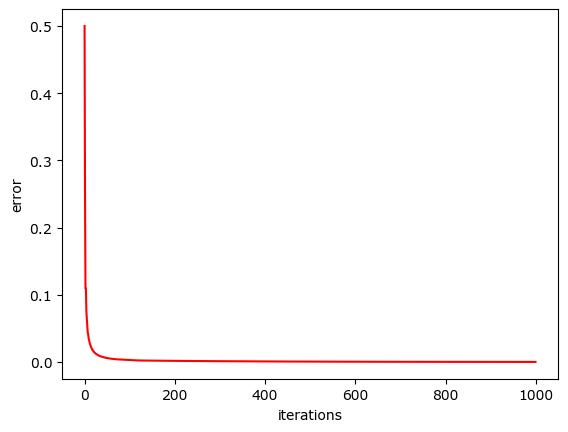
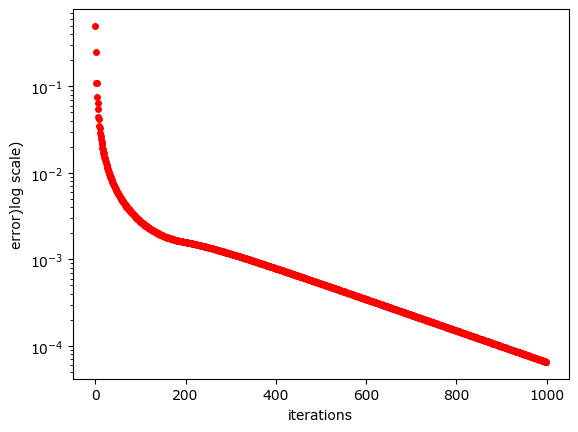
outline for all task ready

diff --git a/week5/EE19B123_week5.py b/week5/EE19B123_week5.py
@@ -12,21 +12,31 @@ import mpl_toolkits.mplot3d.axes3d as p3
 import os
 os.chdir('/home/tanay/Documents/sem4/EE2703/week5')
 
+##TODO make imgs directory
 
+
+
+#python decorator to add plot label/title/legend/save file
 def add_stuf(function):
         def fcall(*args, **kwargs): 
-
-            plt.xlabel(kwargs['xlabel'])
-            plt.ylabel(kwargs['ylabel'])
+            if kwargs.get('xlabel'):
+                plt.xlabel(kwargs['xlabel'])
+            if kwargs.get('ylabel'):
+                plt.ylabel(kwargs['ylabel'])
             if kwargs.get('title'):
                 plt.title(kwargs['title'])
             if kwargs.get('legend'):
                 plt.legend()
             function(*args, **kwargs)
+
+            plt.savefig(kwargs['path']+'.png',bbox_inches='tight')
         return fcall
 
 
 class Plot:
+    '''
+    TODO add description
+    '''
 
     def __init__(self):
         super(Plot, self).__init__()
@@ -34,45 +44,73 @@ class Plot:
 
     @add_stuf
     def semilogy(self,x,y, **kwargs):
-        print('called')
-        plt.semilogy(x,y,kwargs['marker'], label = kwargs['label'])
-        plt.savefig(kwargs['path']+'.png',bbox_inches='tight')
+        plt.semilogy(x,y,kwargs['marker'],ms = 4, label = kwargs['label'])
         print('File saved at {}'.format(kwargs['path']))
+        plt.clf()
 
     @add_stuf
     def loglog(self,x,y, **kwargs):
-        plt.loglog(x,y,kwargs['marker'], label = kwargs['label'])
-        plt.savefig(kwargs['path']+'.png',bbox_inches='tight')
+        plt.loglog(x,y,kwargs['marker'],ms=4, label = kwargs['label'])
         print('File saved at {}'.format(kwargs['path']))
+        plt.clf()
 
     @add_stuf
     def plot(self,x,y, **kwargs):
-        plt.plot(x,y,kwargs['marker'], label = kwargs['label'])
-        plt.savefig(kwargs['path']+'.png',bbox_inches='tight')
+        plt.plot(x,y,kwargs['marker'],ms=4, label = kwargs['label'])
         print('File saved at {}'.format(kwargs['path']))
+        plt.clf()
+
+    @add_stuf
+    def plot3D(self,x,y,z, **kwargs):
+        fig = plt.figure() 
+        ax=p3.Axes3D(fig) 
+        ax.plot_surface(y, x, z.T, rstride=1, cstride=1, cmap=plt.cm.jet)
+
+    @add_stuf
+    def plotMany(self, x, y, **kwargs):
+        pass
 
     
 
 class PotentialSolver(Plot):
+    '''
+    TODO add description
+    '''
     def __init__(self,Nx, Ny,R ):
         '''
+
         '''
         super(PotentialSolver, self).__init__()
         self.Nx = Nx
         self.Ny = Ny
         self.radius = R
         self.phi, self.ids = self.grid()
+        self.X, self.Y = None, None
+
 
     def __str__(self):
         return f'The potential array is {self.phi}'
+
+
+    def errorFit(self,x,y):
+        logy=np.log(y)
+        x_arr = np.ones((len(y), 2))
+        x_arr[:,0] = x
+        B,logA=np.linalg.lstsq(x_arr, np.transpose(logy))[0]
+
+        return np.exp(logA),B
+
+    @staticmethod
+    def max_error(A,B,N):
+        return -A*(np.exp(B*(N+0.5)))/B
          
 
     def grid(self):
         phi = np.zeros((self.Ny,self.Nx))
         x1 = np.linspace(-(self.Ny-1)/2,(self.Ny-1)/2,self.Ny)
         y1 = np.linspace(-(self.Nx-1)/2,(self.Nx-1)/2,self.Nx)
-        Y,X = np.meshgrid(y1,x1)
-        id = np.where((X**2 + Y**2) <= ((self.radius*self.Nx)/100)**2)
+        self.Y,self.X = np.meshgrid(y1,x1)
+        id = np.where((self.X**2 + self.Y**2) <= ((self.radius*self.Nx)/100)**2)
         phi[id] = 1.0
         return phi, id
 
@@ -104,6 +142,7 @@ class PotentialSolver(Plot):
         return error
 
 
+
 if __name__ =='__main__':
     parser = argparse.ArgumentParser()# use --help for support
     parser.add_argument('--Nx',default=25,required = True, type=int,help='Size along the x axis')
@@ -116,6 +155,33 @@ if __name__ =='__main__':
 
     loss = plate.trainer(1000)
 
-    plate.plot(range(1000), loss, marker = 'r-', xlabel = 'iterations', ylabel = 'error',path = 'imgs/figure1', label = 'plot' )
+    A,B = plate.errorFit(range(1000), loss)
+    A2,B2 = plate.errorFit(range(1000)[500:],loss[500:])
 
-    plate.loglog(range(1000)[::50], loss[::50], marker = 'r-', xlabel = 'iterations', ylabel = 'error',path = 'imgs/figure2', label = 'plot' )
+    #Task 1.1
+    plate.semilogy(range(1000), loss, marker = 'ro', xlabel = 'iterations', ylabel = 'error)log scale)',path = 'imgs/figure1', label = 'plot')
+    #Task 1.2
+    plate.loglog(range(1000)[::50], loss[::50], marker = 'ro', xlabel = 'iterations(log scale)', ylabel = 'error(log scale)',path = 'imgs/figure2', label = 'plot')
+
+    #Task 2.1 TODO add  multiple plots cuz here u have to plot 3 in 2 graph
+    plate.semilogy(range(1000)[::50],plate.max_error(A,B,np.arange(0,1000,50)), marker = 'ro', xlabel = 'iterations', ylabel = 'error)log scale)',path = 'imgs/figure3', label = 'plot')
+
+    #Task 3
+    plate.plot3D(plate.X, plate.Y, plate.phi , path ='imgs/figure4', tile ='The 3-D surface plot of the potential')
+
+    #Task 4 , contour potential
+
+    #Task 5 , vetcor plot of currents 
+
+
+
+
+
+
+
+
+
+
+
+
+
